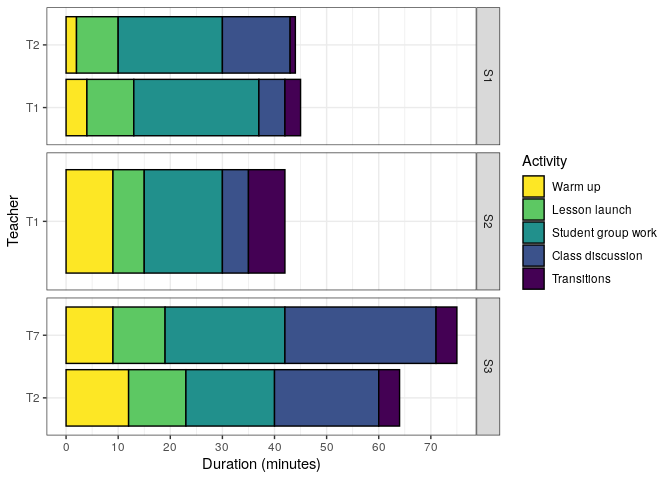
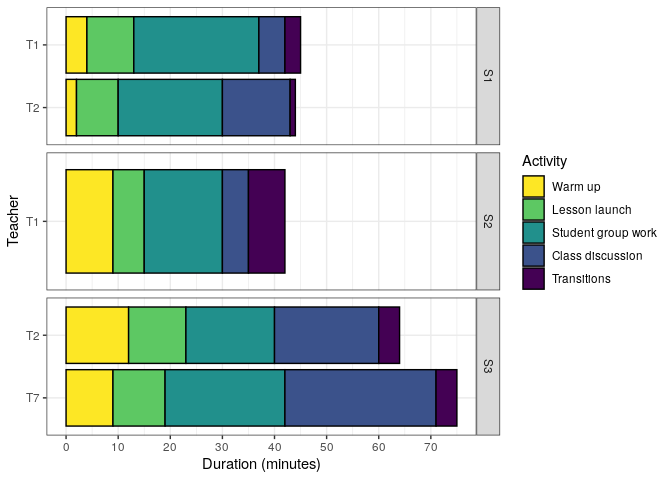
changes

diff --git a/bar_graphs.md b/bar_graphs.md
@@ -53,7 +53,8 @@ df <-
     "S3",    "T7",     "Transitions",          4
   ) %>%
   mutate(
-    act = act %>% fct_inorder() %>% fct_rev()
+    act = act %>% fct_inorder() %>% fct_rev(),
+    teacher = teacher %>% fct_inorder() %>% fct_rev()
   )
 ```
 
